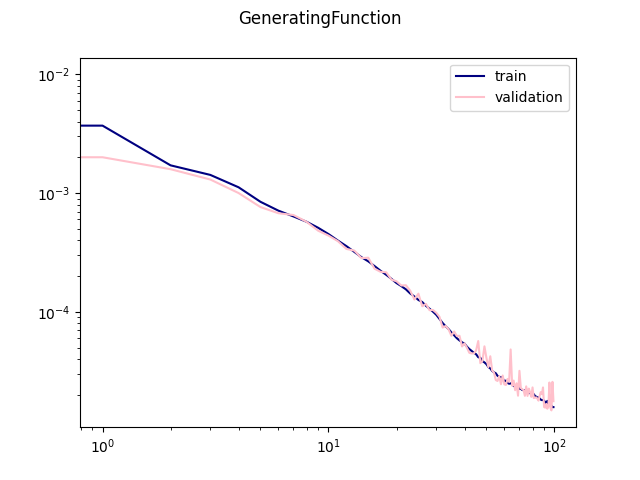
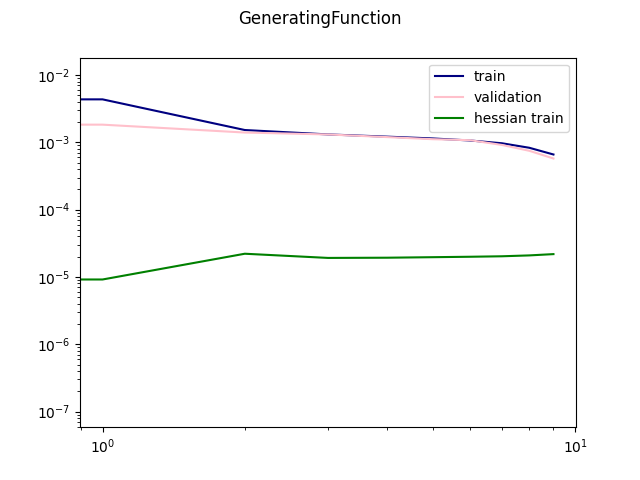
pre remote dev

diff --git a/helper.py b/helper.py
@@ -16,23 +16,37 @@ from settings import MODELDIR, DATADIR, GRAPHICSDIR
 
 
 class Training:
-    def __init__(self, num_epochs=100, cs="Custom", type="ReturnMap", train_dataset="train50k.npy"):
+    def __init__(self,
+                 num_epochs=100,
+                 cs="Custom",
+                 type="ReturnMap",
+                 train_dataset="train50k.npy",
+                 save=True,
+                 alpha=1e-3):
+
         self.num_epochs = num_epochs
         self.cs = cs
         self.type = type
         self.train_dataset = train_dataset
+        self.save = save
+        self.alpha = alpha
 
         self.model = None
-        self.training_loss = 0
-        self.validation_loss = 0
+        self.training_loss = 0.
+        self.hess_train_loss = 0.
+        self.validation_loss = 0.
 
         self.today = datetime.today().strftime("%Y-%m-%d")
 
     def train(self):
         # relevant directories
         data_dir = os.path.join(DATADIR, self.type, self.cs)
-        model_dir = os.path.join(MODELDIR, self.type, self.cs, self.today)
-        Path(model_dir).mkdir(parents=True, exist_ok=True)
+
+        if self.save:
+            model_dir = os.path.join(MODELDIR, self.type, self.cs, self.today)
+            Path(model_dir).mkdir(parents=True, exist_ok=True)
+        else:
+            model_dir = None
 
         if self.type == "ReturnMap":
             Dataset = ReturnMapDataset
@@ -57,16 +71,18 @@ class Training:
         model = ReLuModel(input_dim=input_dim, output_dim=output_dim)
 
         # train
-        model, training_loss, validation_loss = train_model(model,
-                                                            train_dataset,
-                                                            validation_dataset,
-                                                            torch.nn.MSELoss(),
-                                                            self.num_epochs,
-                                                            dir=model_dir)
+        model, training_loss, validation_loss, hess_train_loss = train_model(model,
+                                                                             train_dataset,
+                                                                             validation_dataset,
+                                                                             torch.nn.MSELoss(),
+                                                                             self.num_epochs,
+                                                                             dir=model_dir,
+                                                                             alpha=self.alpha)
 
         self.model = model
         self.training_loss = training_loss
         self.validation_loss = validation_loss
+        self.hess_train_loss = hess_train_loss
 
     def plot_loss(self):
         graphics_dir = os.path.join(
@@ -78,6 +94,7 @@ class Training:
         plt.suptitle(self.type)
         plt.plot(self.training_loss, label="train", c="navy")
         plt.plot(self.validation_loss, label="validation", c="pink")
+        plt.plot(self.hess_train_loss, label="hessian train", c="green")
         plt.yscale("log")
         plt.xscale("log")
         plt.legend(loc="upper right")
@@ -250,13 +267,14 @@ class Diagnostics:
                 orbit.set_phi(inputs)
 
                 discrete_action = DiscreteAction(None, orbit, exact=True)
-                deriv_ex = deriv_fn(discrete_action, inputs)
+                deriv_ex = torch.squeeze(deriv_fn(discrete_action, inputs))
 
                 # compute jacobian loss
-                new_deriv_diff_loss = (deriv_emp - deriv_ex).pow(2).sum().item()
+                new_deriv_diff_loss = (
+                    deriv_emp - deriv_ex).pow(2).mean().item()
 
-                new_deriv_ex_loss = deriv_ex.pow(2).sum().item()
-                new_deriv_emp_loss = deriv_emp.pow(2).sum().item()
+                new_deriv_ex_loss = deriv_ex.pow(2).mean().item()
+                new_deriv_emp_loss = deriv_emp.pow(2).mean().item()
 
                 # save epoch loss
                 epoch_deriv_diff_loss += new_deriv_diff_loss
@@ -272,7 +290,7 @@ class Diagnostics:
 
             print("Epoch: {}. Diff Loss: {:.4f}. Emp Loss:{:.4f}. Ex Loss: {:.4f}".format(
                 epoch, deriv_diff_loss, deriv_emp_loss, deriv_ex_loss))
-            
+
         fig = plt.figure()
         if ord == 1:
             fig.suptitle("Gradient Errors")

diff --git a/ml/training.py b/ml/training.py
@@ -3,18 +3,28 @@ import torch
 from pathlib import Path
 from torch.utils.data import DataLoader
 
-from util import batch_jacobian
+from util import batch_jacobian, batch_hessian
 from dynamics import Orbit
 from physics import DiscreteAction
 
 
-def train_model(model, train_dataset, validation_dataset, loss_fn, num_epochs, batch_size=128, dir=None):
+def train_model(model,
+                train_dataset,
+                validation_dataset,
+                loss_fn,
+                num_epochs,
+                batch_size=128,
+                dir=None,
+                alpha=1e-3):
+
     # Set model to training mode
     model.train()
 
     # Track loss
     train_losses = []
     validation_losses = []
+
+    hess_train_losses = []
 
     # Optimizer
     optimizer = torch.optim.Adam(model.parameters(), lr=1e-3)
@@ -30,6 +40,7 @@ def train_model(model, train_dataset, validation_dataset, loss_fn, num_epochs, b
         # Track training loss
         epoch_train_loss = 0.0
         epoch_validation_loss = 0.0
+        epoch_hess_train_loss = 0.0
 
         # Train the model for one epoch
         for inputs, targets in train_loader:
@@ -42,17 +53,25 @@ def train_model(model, train_dataset, validation_dataset, loss_fn, num_epochs, b
             # required if output_dim=1, since output is of shape (output_dim, 1) then
             outputs = torch.squeeze(outputs)
 
-            # Calculate the loss
+            # Calculate main loss
             loss = loss_fn(outputs, targets)
 
+            # regularizer loss
+            hessian = torch.squeeze(batch_hessian(model.model, inputs))
+            hess_loss = torch.mean(hessian.pow(2))
+
+            # total loss as weighted sum
+            total_loss = loss + alpha*hess_loss
+
             # Backward pass
-            loss.backward()
+            total_loss.backward()
 
             # Update parameters
             optimizer.step()
 
             # Track training loss
             epoch_train_loss += loss.item()
+            epoch_hess_train_loss += alpha*hess_loss.item()
 
         with torch.no_grad():
             # calculate validation loss
@@ -68,13 +87,17 @@ def train_model(model, train_dataset, validation_dataset, loss_fn, num_epochs, b
 
         # Calculate average losses
         train_loss = epoch_train_loss / len(train_dataset)
+        hess_train_loss = epoch_hess_train_loss / len(train_dataset)
         validation_loss = epoch_validation_loss / len(validation_dataset)
         train_losses.append(train_loss)
         validation_losses.append(validation_loss)
+        hess_train_losses.append(hess_train_loss)
 
         # save model
-        Path(os.path.join(dir, "epochs", str(epoch+1))).mkdir(parents=True, exist_ok=True)
         if dir:
+            Path(os.path.join(dir, "epochs", str(epoch+1))
+                 ).mkdir(parents=True, exist_ok=True)
+
             torch.save({
                 "model_state_dict": model.state_dict(),
                 "epoch": epoch+1,
@@ -83,8 +106,8 @@ def train_model(model, train_dataset, validation_dataset, loss_fn, num_epochs, b
             },
                 os.path.join(dir, "epochs", str(epoch+1), "model.pth"))
 
-        print('Epoch: {}, Training Loss: {:.4f}, Validation Loss: {:.4f}'.format(
-            epoch+1, train_loss, validation_loss))
+        print('Epoch: {}, Training Loss: {:.4f}, Validation Loss: {:.4f}. Hessian Loss: {:.4f}'.format(
+            epoch+1, train_loss, validation_loss, hess_train_loss))
 
     if dir:
         torch.save({
@@ -95,4 +118,4 @@ def train_model(model, train_dataset, validation_dataset, loss_fn, num_epochs, b
         },
             os.path.join(dir, "model.pth"))
 
-    return model, train_losses, validation_losses
+    return model, train_losses, validation_losses, hess_train_losses

diff --git a/util.py b/util.py
@@ -1,5 +1,11 @@
 import torch
+import subprocess
+from io import BytesIO
+
 import numpy as np
+import pandas as pd
+
+
 from functorch import jacfwd, jacrev, vmap, hessian
 from scipy.optimize import root_scalar
 from matplotlib.widgets import Slider
@@ -129,3 +135,22 @@ def batch_jacobian(f, input):
             jac = vmap(jacrev(f), in_dims=(0,))(input)
 
     return jac
+
+
+def get_least_busy_gpu(verbose=True):
+    gpu_stats = subprocess.check_output(
+        ["nvidia-smi", "--format=csv", "--query-gpu=memory.used,memory.free"])
+    gpu_df = pd.read_csv(BytesIO(gpu_stats),
+                         names=['memory.used', 'memory.free'],
+                         skiprows=1)
+    gpu_df['memory.free'] = gpu_df['memory.free'].map(
+        lambda x: x.rstrip(' [MiB]'))
+    gpu_df["memory.free"] = pd.to_numeric(gpu_df["memory.free"])
+    idx = gpu_df['memory.free'].idxmax()
+
+    if verbose:
+        print('GPU usage:\n{}'.format(gpu_df))
+        print('Returning GPU{} with {} free MiB'.format(
+            idx, gpu_df.iloc[idx]['memory.free']))
+
+    return idx

diff --git a/main.py b/main.py
@@ -16,9 +16,11 @@ if __name__ == "__main__":
     type = "GeneratingFunction"
 
     # generate_dataset(a, b, mu, 100000, "train100k.npy", cs="Custom", mode="classic", type="GeneratingFunction")
-    #training_procedure(num_epochs=100,
+    #training_procedure(num_epochs=10,
     #                   type=type,
     #                   cs=cs,
-    #                   train_dataset="train100k.npy")
+    #                   train_dataset="train100k.npy",
+    #                   save=False,
+    #                   alpha=1e-2)
 
     minimization_procedure(a, b, n_epochs=100, dir="GeneratingFunction/Custom/2023-02-23", type=type, cs=cs)

diff --git a/procedures.py b/procedures.py
@@ -8,11 +8,8 @@ from helper import Training, Minimizer, Diagnostics
 from settings import MODELDIR
 
 
-def training_procedure(num_epochs=100, type="GeneratingFunction", cs="Custom", train_dataset="train50k.npy"):
-    training = Training(num_epochs=num_epochs,
-                        type=type,
-                        cs=cs,
-                        train_dataset=train_dataset)
+def training_procedure(**kwargs):
+    training = Training(**kwargs)
     training.train()
     training.plot_loss()
 
